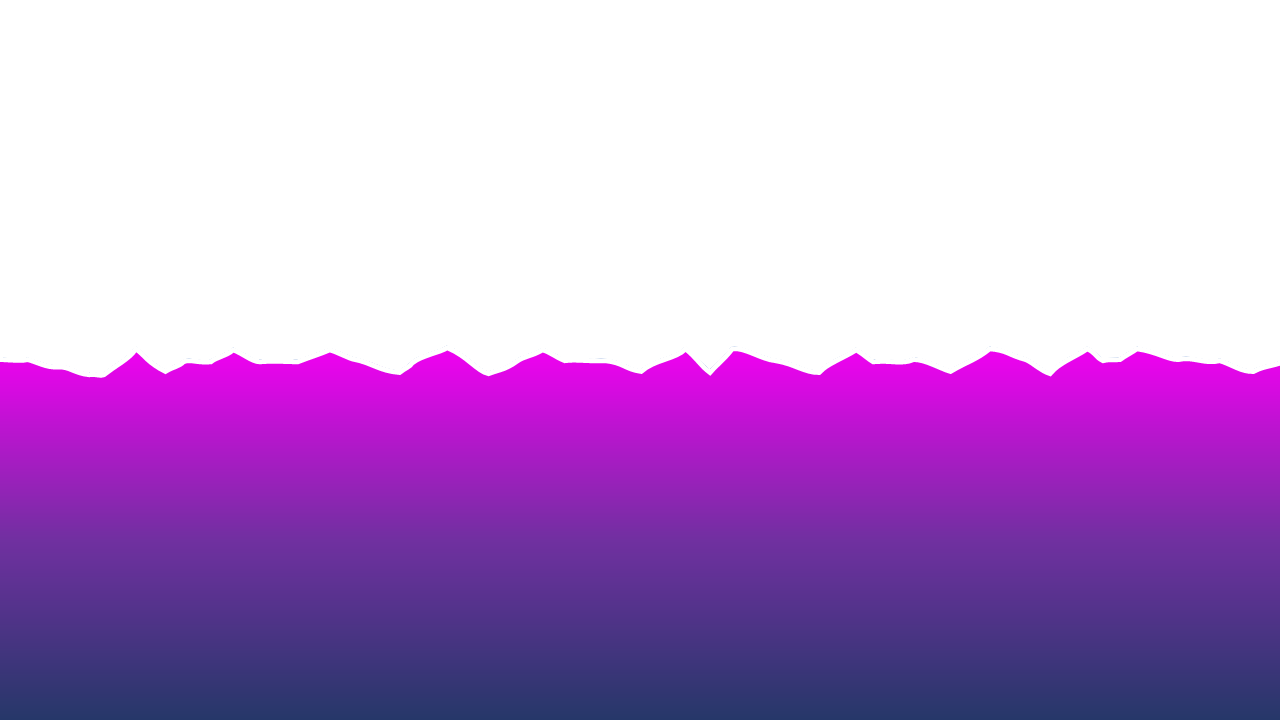
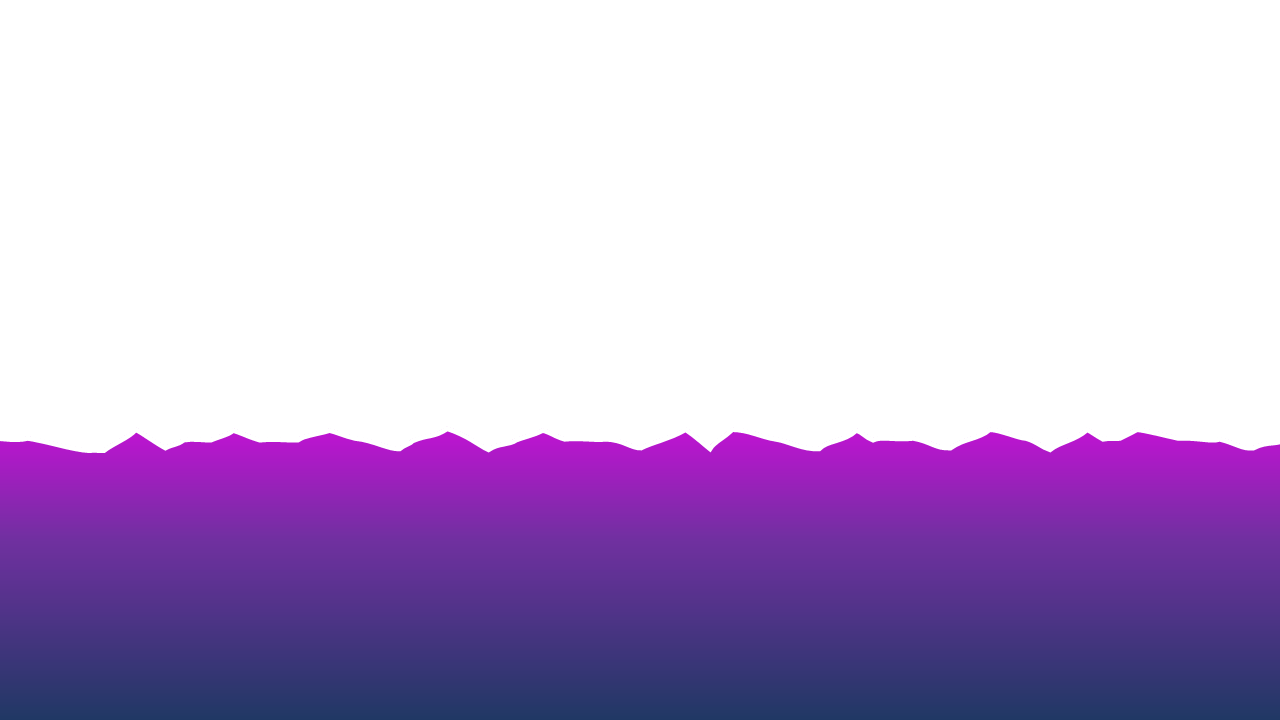
More Actor Art, Foreground Fading implemented

Changed region(s): [[0.0, 0.4889, 1.0, 0.6417]]

diff --git a/Assets/Scripts/UIManager.cs b/Assets/Scripts/UIManager.cs
@@ -142,6 +142,33 @@ public class UIManager : MonoBehaviour
     //    ui.ActorRenderer.sprite = ui.currentActor.sprite;
     //}
 
+    [YarnCommand("fgFade")]
+    public static void FadeOverlay(bool foo)
+    {
+        GameManager.Instance.uiManager.StartCoroutine(FadeOverlayCoroutine(foo));
+    }
+
+    public static IEnumerator FadeOverlayCoroutine(bool foo)
+    {
+        UIManager ui = GameManager.Instance.uiManager;
+        float t = 0f;
+
+        if (!ui.Foreground.gameObject.activeSelf) ui.Foreground.gameObject.SetActive(true);
+
+        ui.Foreground.color = new Color(1f, 1f, 1f, foo ? 0 : 1);
+
+        while (t < 1)
+        {
+            t += Time.deltaTime;
+            if (foo) ui.Foreground.color = new Color(1f, 1f, 1f, t);
+            else ui.Foreground.color = new Color(1f, 1f, 1f, 1f - t);
+
+            yield return null;
+        }
+
+        yield break;
+    }
+
     public void ToggleLineDivider(bool foo)
     {
         LineDivider.SetActive(foo);
